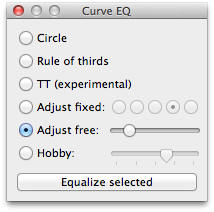
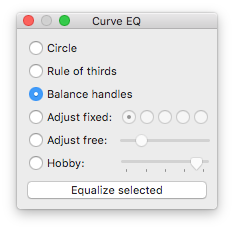
Update screenshot, docs, modules

Changed region(s): [[0.0, 0.0, 0.9813, 0.9906], [0.5888, 0.566, 0.6168, 0.5943]]

diff --git a/RoboFont/Curve EQ.roboFontExt/html/index.html b/RoboFont/Curve EQ.roboFontExt/html/index.html
@@ -26,7 +26,7 @@
 		<h1>Curve Equalizer</h1>
 		<p>Curve Equalizer helps you quickly balance the Bézier handles of a curve, or adjust the curvature to a fixed amount.</p>
 		<h2>Interface</h2>
-		<p><img src="dialog.png" width="214" height="212" alt=""></p>
+		<p><img src="dialog.png" width="230" height="234" alt=""></p>
 		<p>Select the curve adjustment method.</p>
 		<table>
 			<tr>
@@ -41,9 +41,13 @@
 				<td>Rule of thirds</td>
 				<td>The resulting handles and the line between the two handles will each be nearly equal in length.</td>
 			</tr>
-			<tr>
+			<!--<tr>
 				<td>TT (experimental)</td>
 				<td>Change the curve so it is well suited for conversion to a quadratic (TrueType) Bézier curve. Don’t use this, the results are terrible at the moment.</td>
+			</tr>-->
+			<tr>
+				<td>Balance handles</td>
+				<td>The curvature is not changed, only the length of the handles is distributed evenly between the in- and outgoing handle. This is similar to the «Tunnifier» script by Eduardo Tunni.</td>
 			</tr>
 			<tr>
 				<td>Adjust</td>
@@ -59,13 +63,18 @@
 			</tr>
 		</table>
 		<p>Click the «Equalize selected» button to apply the adjustment to the selected curves in the current glyph window.</p>
+		<p>Tip: you can make the window larger, this will give you longer sliders and thus more precision.</p>
 		<h2>Known Issues</h2>
-		<p>If the angle between the Bézier handles is less than 45°, or the handles are on different sides of the curve, the curvature can’t be changed. This is not a bug. Check the Output Window for messages.</p>
+		<p>If the angle between the Bézier handles is less than 45°, or the handles are on different sides of the curve, the curvature can’t be changed. This is not a bug.</p>
 		<p>The modified curves preview is not visible while you hold the Preview keyboard shortcut.</p>
-		<p>The «TT (experimental)» method is just that.</p>
 		<h2>Geometry</h2>
 		<p>These are my notes from which I derived the trigonometry at work:</p>
 		<p><img src="geometry.jpg" width="370" height="305" alt=""></p>
+		<h2>Privacy Policy</h2>
+		<p>Curve Equalizer collects usage data and sends it to the host <tt>ws.kutilek.de</tt>. This data is not shared with anyone and is used strictly for development and debugging purposes of Curve Equalizer.</p>
+		<p>Basically, I would like to find out which EQ method is used how often.</p>
+		<p>The data that is recorded consists of the extension ID, a persistent user ID which is generated randomly on the first run of Curve Equalizer, the timestamp for start and end of a Curve Equalizer session, the timestamp and selected EQ method when you click «Equalize selected», the timestamp and selected option when you change any setting, the path of the Curve Equalizer script on your computer, the status and timestamp of the last communication with the server, and the timestamp of the next scheduled communication.</p>
+		<p>The collected data is sent to the server through a secure connection about once per day.</p>
 		<hr>
 		<p>Curve Equalizer is © 2013 by Jens Kutilek.</p>
 		<p>The Hobby Spline code was sent in by Simon Egli with contributions by Juraj Sukop and Lasse Fister.</p>
